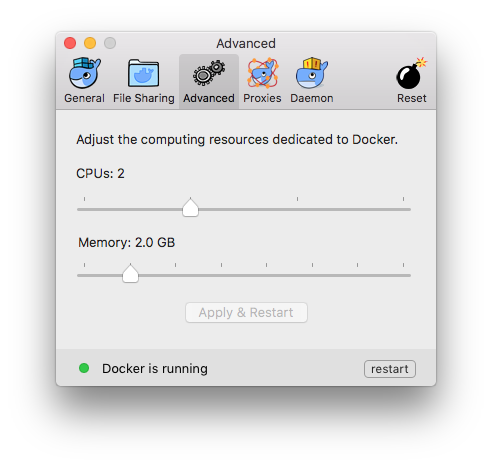
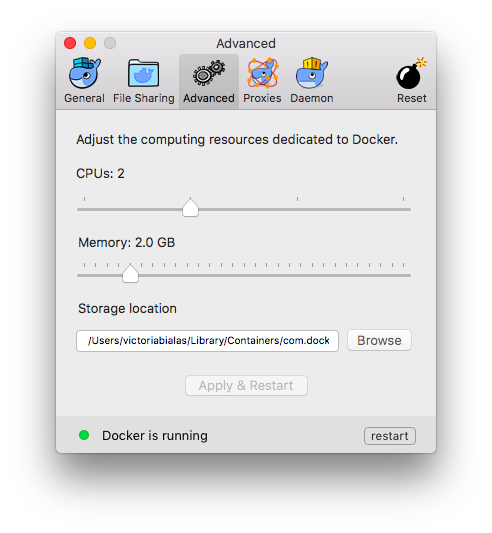
first draft d4mac, d4win Beta 33 docs

diff --git a/docker-for-mac/release-notes.md b/docker-for-mac/release-notes.md
@@ -202,6 +202,28 @@ events or unexpected unmounts.
 
 ## Beta Release Notes
 
+### Beta 33 Release Notes (2016-12-14 1.13.0-rc3-beta33)
+
+>**Important Note:** Plugins installed using the experimental "managed plugins" feature in Docker 1.12 must be removed/uninstalled before upgrading.
+
+**New**
+
+- You can now edit filesharing paths
+- Memory can be allocated with 256 MiB steps
+- The storage location of the Linux volume can now be moved
+- More explicit proxy settings
+- Proxy can now be completly disabled
+- You can switch daemon tabs without losing your settings
+- You can't edit settings while docker is restarting
+
+**Upgrades**
+
+- Linux Kernel 4.8.14
+
+**Bug fixes and minor improvements**
+
+- Kernel boots with vsyscall=emulate arg and CONFIG_LEGACY_VSYSCALL is set to NONE in Moby
+
 ### Beta 32 Release Notes (2016-12-07 1.13.0-rc3-beta32)
 
 **New**

diff --git a/docker-for-windows/release-notes.md b/docker-for-windows/release-notes.md
@@ -208,6 +208,23 @@ about both kinds of releases, and download stable and beta product installers at
 
 ## Beta Release Notes
 
+### Beta 33 Release Notes (2016-12-14 1.13.0-rc3-beta33)
+
+>**Important Note:** Plugins installed using the experimental "managed plugins" feature in Docker 1.12 must be removed/uninstalled before upgrading.
+
+**New**
+
+- VHDX file containing images and non-host mounted volumes can be moved (using "advanced" tab in the UI)
+
+**Upgrades**
+
+- Linux Kernel 4.8.14
+
+**Bug fixes and minor changes**
+
+- Bugsnag reports should work again
+- Fixed a memory leak related to logs and Windows Containers
+
 ### Beta 32 Release Notes (2016-12-07 1.13.0-rc3-beta32)
 
 >**Important Note**:

diff --git a/docker-for-mac/index.md b/docker-for-mac/index.md
@@ -213,7 +213,7 @@ get faster performance by setting this number higher (for example to `3`) or
 lower (to `1`) if you want Docker for Mac to use less memory.
 
 >**Tip: Beta dialogs** &mdash; Starting with Beta 31, CPUs and Memory settings
-are on the Advanced dialog, as shown here.
+are on the Advanced dialog. Starting with Beta 33, you can specify the storage location of the Linux volume. These settings are shown below.
 >
 >![CPUs and Memory settings UI
 starting at Beta 31](images/settings-advanced-beta.png)
